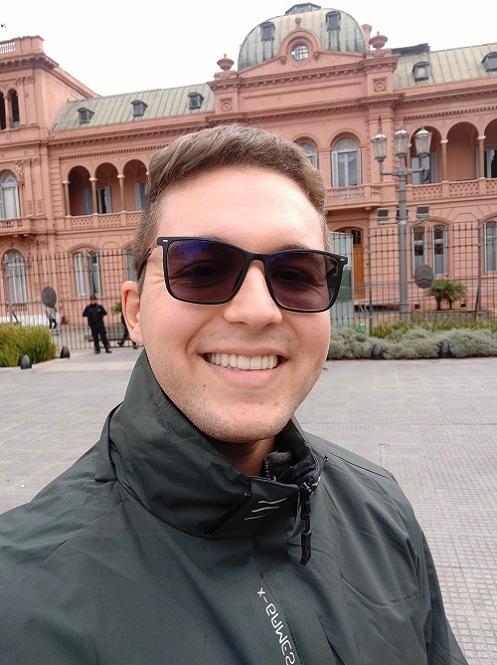
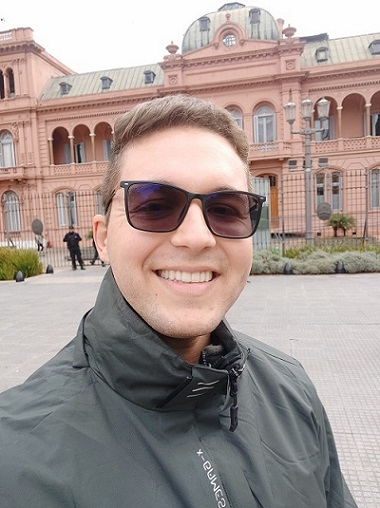
big-commit

diff --git a/index.html b/index.html
@@ -66,11 +66,6 @@
     <!---Sobre-->
     <section id="about">
         <div class="about container">
-            <!-- <div class="col-left">
-                <div class="about-img">
-                    <img src="./img/sobrecolor.jpg" alt="Lucas Felipe">
-                </div>
-            </div> -->
             <div class="col-right">
                 <h1 class="section-title"><span>S</span>obre</h1>
                 <h2>Estudante e <span>S</span>ervidor <span>P</span>úblico</h2>
@@ -83,14 +78,19 @@
                     no
                     Centro de Controle de Zoonozes. Tenho grande apreço pela área da saúde e tenho orgulho de nosso
                     trabalho.
-                </p>
-                <p>Sou um grande entusiasta de tecnologias e tenho amplo conhecimento sobre informática e
+                    <br>
+                    <br>
+                    Sou um grande entusiasta de tecnologias e tenho amplo conhecimento sobre informática e
                     hardware. Em
                     2021 iniciei minha faculdade de Análise e Desenvolvimento de Sistemas e venho aprimorando
                     minhas
                     habilidades gerais na área de programação.</p>
             </div>
-
+            <div class="col-left">
+                <div class="about-img">
+                    <img src="./img/sobrecolor.jpg" alt="Lucas Felipe">
+                </div>
+            </div>
         </div>
         </div>
 
@@ -145,22 +145,27 @@
             <div class="all-projects">
                 <div class="project-item">
                     <div class="project-info">
-                        <h2>Projeto 1</h2>
-                        <h3>Site Simples em HTML</h3>
-                        <p>Este foi meu primeiro contato com o front-end, feito a partir das
-                            primeiras aulas de HTML e CSS da faculdade <span></span>.
+                        <h2>LFS <span>DEV</span></h2>
+                        <h3>HTML, CSS e JavaScript</h3>
+                        <p>Este é meu primeiro projeto próprio, <i>Mobile First</i>, feito a partir de
+                            algumas horas de aulas de CSS e HTML. O JavaScript é bem sutil,
+                            visando uma melhor responsividade do site em dispositivos
+                            mobile. O código deste site pode ser encontrado em meu
+                            GitHub.
                         </p>
                     </div>
                     <div class="project-img">
-                        <img src="./img/one.jpg" alt="Primeiro Projeto">
+                        <img src="./img/one.jpg" alt="LFS DEV">
                     </div>
                 </div>
                 <div class="project-item">
                     <div class="project-info">
-                        <h2>Projeto 2</h2>
-                        <h3>Site Simples em HTML</h3>
-                        <p>Este foi meu primeiro contato com o front-end, feito a partir das
-                            primeiras aulas de HTML e CSS da faculdade UNINTER.
+                        <h2>NLW e<span>S</span>ports <span>E</span>xplorer</h2>
+                        <h3>HTML e CSS</h3>
+                        <p>Este site foi feito durante o bootcamp online de uma semana
+                            do grupo Rocketseat. Através deste curso tomei conhecimentode
+                            de ferramentas como Git, GitHub, Figma e diversas outras.
+                            O código está disponível em meu GitHub.
                         </p>
                     </div>
                     <div class="project-img">
@@ -169,28 +174,16 @@
                 </div>
                 <div class="project-item">
                     <div class="project-info">
-                        <h2>Projeto 3</h2>
-                        <h3>Site Simples em HTML</h3>
-                        <p>Este foi meu primeiro contato com o front-end, feito a partir das
-                            primeiras aulas de HTML e CSS da faculdade UNINTER.
+                        <h2>Em Breve</h2>
+                        <h3>React Native</h3>
+                        <p>Estou trabalando no meu primeiro projeto feito em React Native. 
+                            Em breve disponível em meu GitHub.
                         </p>
                     </div>
                     <div class="project-img">
                         <img src="./img/three.jpg" alt="Terceiro Projeto">
                     </div>
                 </div>
-                <!-- <div class="project-item">
-                    <div class="project-info">
-                        <h2>Projeto 4</h2>
-                        <h3>Site Simples em HTML</h3>
-                        <p>Este foi meu primeiro contato com o front-end, feito a partir das
-                            primeiras aulas de HTML e CSS da faculdade UNINTER.
-                        </p>
-                    </div>
-                    <div class="project-img">
-                        <img src="./img/four.jpg" alt="Segundo Projeto">
-                    </div>
-                </div> -->
             </div>
         </div>
     </section>
@@ -240,17 +233,17 @@
                     <div class="social-icons">
                         <div class="social-icon">
                             <div class="social-item">
-                                <a href="#" style="color:white">
+                                <a href="https://www.instagram.com/druidgwind/" target="_blank" style="color:white">
                                     <ion-icon name="logo-instagram"></ion-icon>
                                 </a>
                             </div>
                             <div class="social-item">
-                                <a href="#" style="color:white"></a>
+                                <a href="https://www.linkedin.com/in/lucaslfs/" target="_blank" style="color:white"></a>
                                 <ion-icon name="logo-linkedin"></ion-icon>
                                 </a>
                             </div>
                             <div class="social-item">
-                                <a href="#" style="color:white"></a>
+                                <a href="https://github.com/Druidgwind/" target="_blank" style="color:white"></a>
                                 <ion-icon name="logo-github"></ion-icon>
                                 </a>
                             </div>

diff --git a/style.css b/style.css
@@ -242,6 +242,7 @@ header,
 
 #about .about-bottom {
     padding-top: 10px;
+    padding-bottom: 30px;
     text-align: justify;
 }
 
@@ -250,12 +251,12 @@ header,
     text-align: center;
     max-width: 1200px;
     margin: 0 auto;
-    padding: 80px 20px;
+    padding: 70px 20px;
 }
 
 
 #about .col-left {
-    width: 100%;
+    margin: 0;
 }
 
 #about .col-right {
@@ -263,8 +264,9 @@ header,
 }
 
 
-#about .col-left .about-img {
-    position: relative;
+#about .about-img {
+    width: 100%;
+    height: 100%;
 }
 
 /*Termino Sobre */
@@ -389,7 +391,7 @@ header,
     justify-content: center;
     flex-direction: column;
     width: 100%;
-    margin: 0px auto;
+    margin: 20px auto;
     overflow: hidden;
     border-radius: 10px;
 }
@@ -415,7 +417,7 @@ header,
     font-size: 2rem;
     font-weight: 400;
     margin-top: 5px;
-    margin-bottom: 0;
+    margin-bottom: 5px;
     text-align: center;
 }
 
@@ -432,7 +434,7 @@ header,
 
 #projects .project-img {
     flex-basis: 50%;
-    height: 200px;
+    height: 300px;
     overflow: hidden;
     position: relative;
 }
@@ -572,7 +574,7 @@ header,
 }
 
 #footer h2 {
-    font-weight: 600;
+    font-weight: 800;
     font-size: 1.8rem;
 }
 
